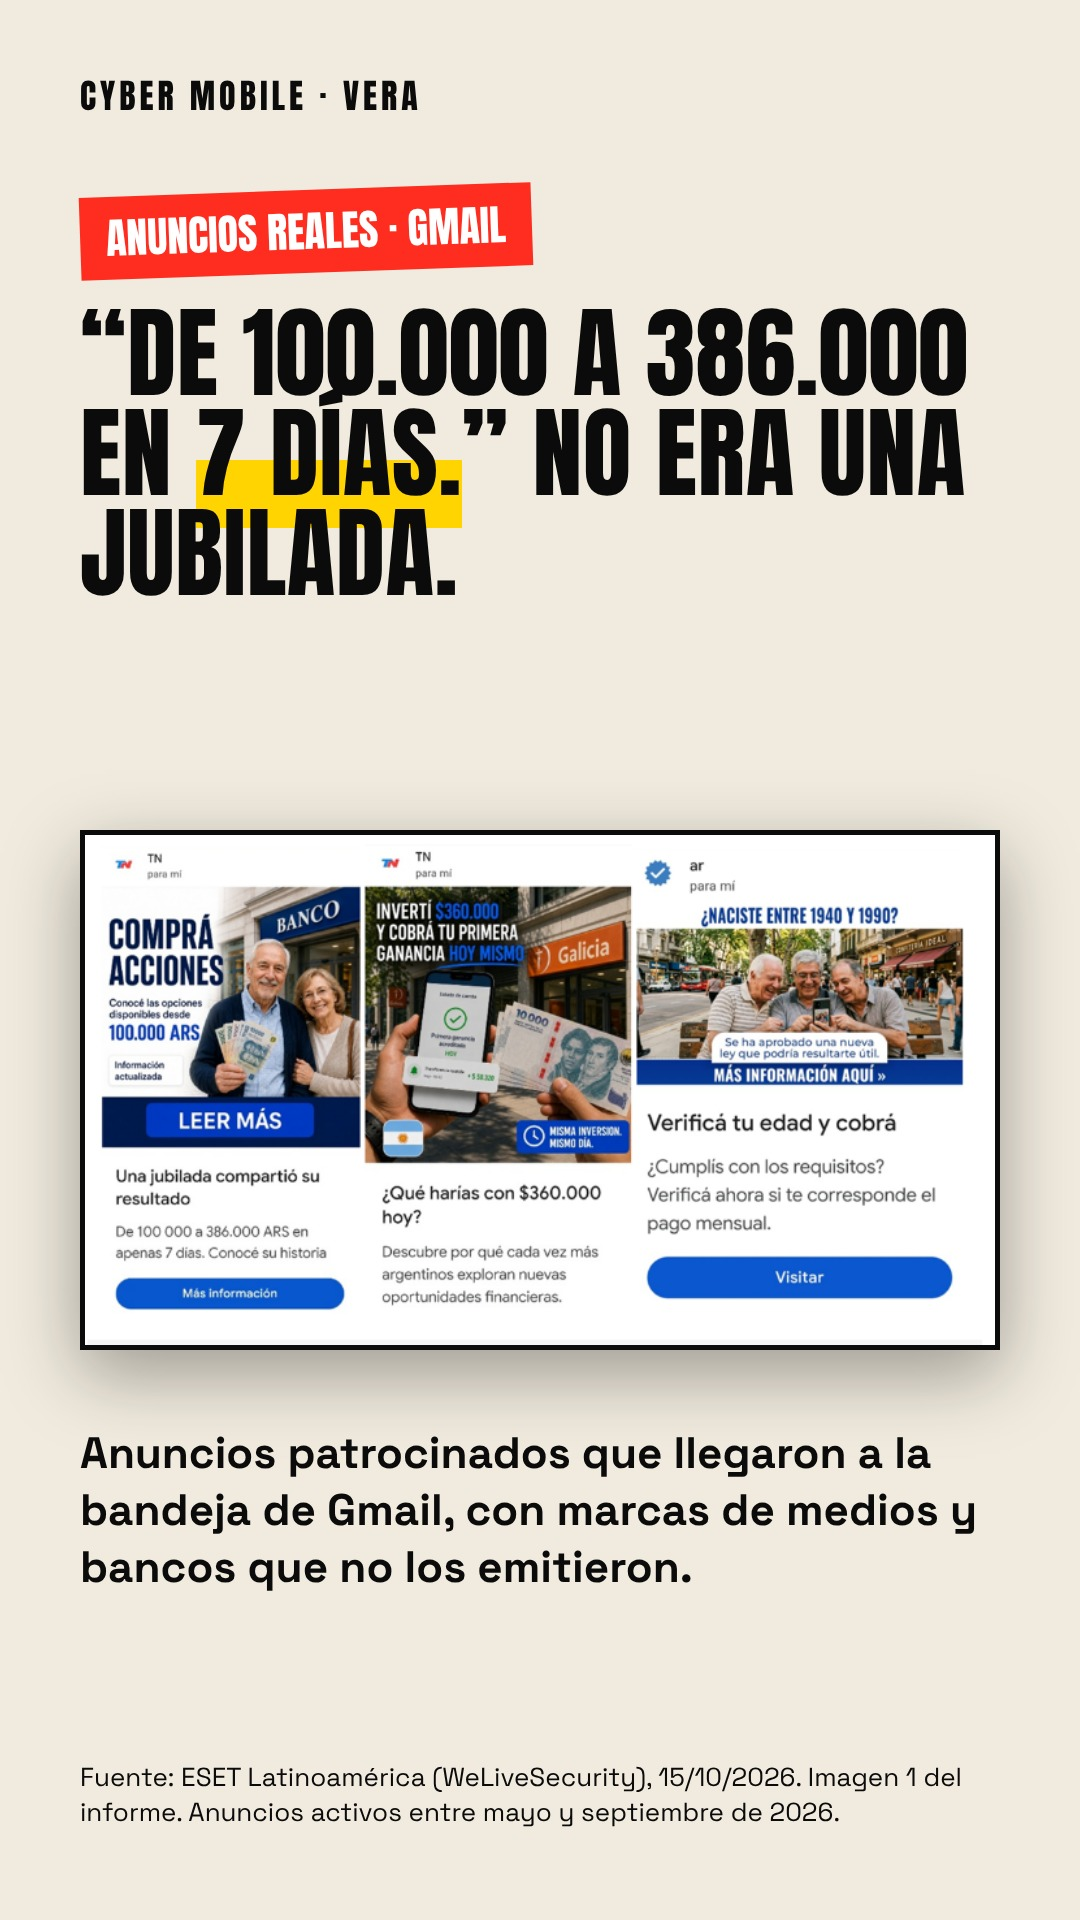
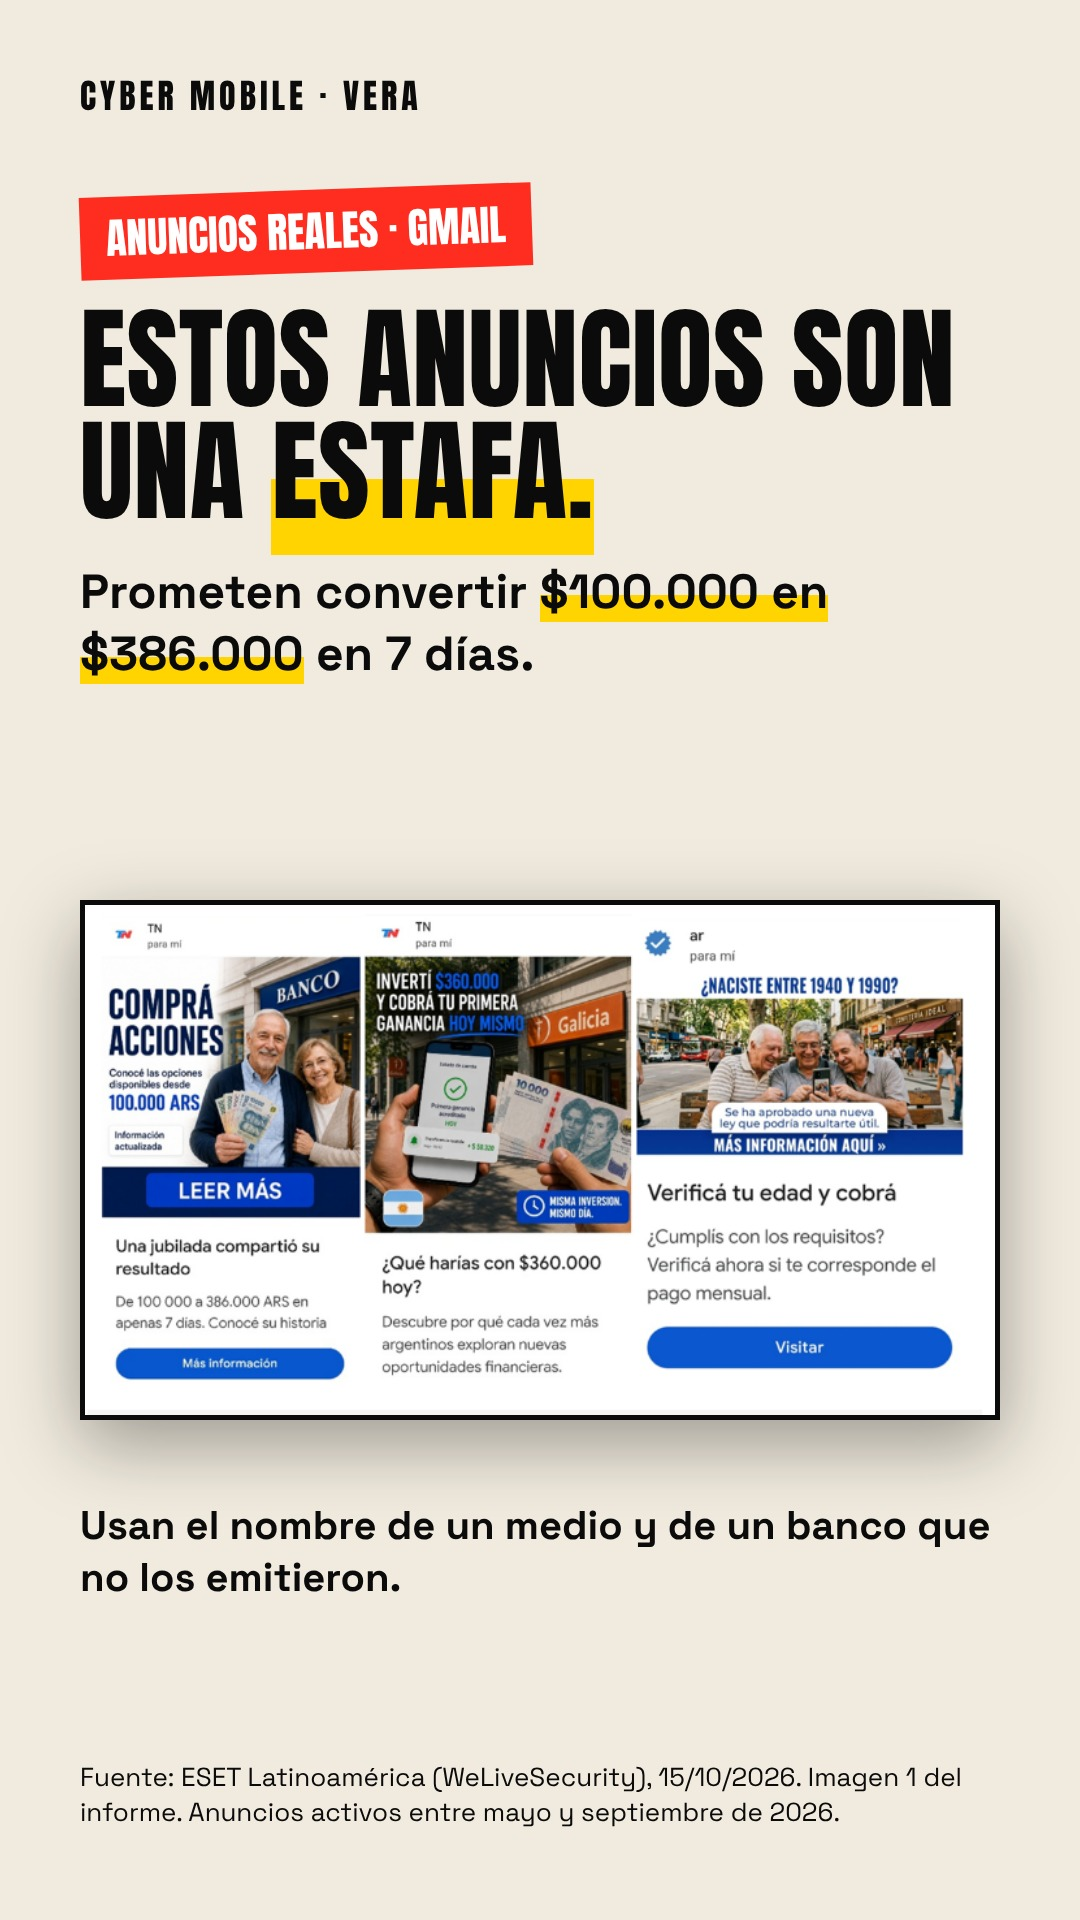
Redes: primera historia de inversión falsa más clara (titular y promesa)
Claude-Session: https://claude.ai/code/session_01Fx8nG8n9zT2oynar78L9kM

diff --git a/scripts/redes/propuestas/2026-11-23/html/v2-f1.html b/scripts/redes/propuestas/2026-11-23/html/v2-f1.html
@@ -14,7 +14,7 @@
 .img img{display:block;width:100%}
 .mkb{position:absolute;border:8px solid #ff2d1f;border-radius:22px;transform:rotate(-.8deg)}
 .mkl{position:absolute;font-family:AN;font-size:40px;background:#ff2d1f;color:#fff;padding:6px 20px;text-transform:uppercase;transform:rotate(-2deg);white-space:nowrap}
-body{background:#f1ebdf;color:#0b0b0b}</style></head><body><div class=brand>CYBER MOBILE · VERA</div><div class="pad" style="top:190px"><span class=tag>Anuncios reales · Gmail</span><div class=h style="font-size:100px;margin-top:30px">“DE 100.000 A 386.000 EN <span class=mk>7 DÍAS.</span>” NO ERA UNA JUBILADA.</div></div>
-<div class="img" style="top:830px;left:80px;width:920px"><img src="/home/user/Cyber-Mobile/scripts/redes/propuestas/2026-11-23/real/anuncios-gmail-completo.png" style="display:block;width:100%"></div>
-<div class="pad src" style="top:1425px;font-size:44px;line-height:1.3;font-weight:700">Anuncios patrocinados que llegaron a la bandeja de Gmail, con marcas de medios y bancos que no los emitieron.</div>
+body{background:#f1ebdf;color:#0b0b0b}</style></head><body><div class=brand>CYBER MOBILE · VERA</div><div class="pad" style="top:190px"><span class=tag>Anuncios reales · Gmail</span><div class=h style="font-size:112px;margin-top:30px">ESTOS ANUNCIOS SON UNA <span class=mk>ESTAFA.</span></div><div style="font-size:48px;line-height:1.3;font-weight:700;margin-top:34px">Prometen convertir <span class=mk>$100.000 en $386.000</span> en 7 días.</div></div>
+<div class="img" style="top:900px;left:80px;width:920px"><img src="/home/user/Cyber-Mobile/scripts/redes/propuestas/2026-11-23/real/anuncios-gmail-completo.png" style="display:block;width:100%"></div>
+<div class="pad src" style="top:1500px;font-size:40px;line-height:1.3;font-weight:700">Usan el nombre de un medio y de un banco que no los emitieron.</div>
 <div class="pad src" style="bottom:90px;font-size:26px">Fuente: ESET Latinoamérica (WeLiveSecurity), 15/10/2026. Imagen 1 del informe. Anuncios activos entre mayo y septiembre de 2026.</div></body></html>
